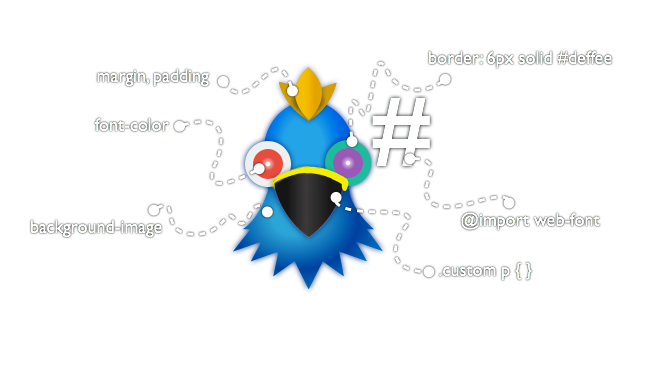
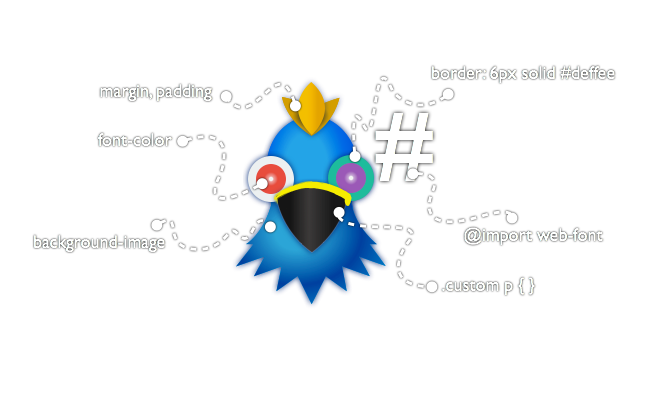
add intro image for v0.8

diff --git a/user.html b/user.html
@@ -173,10 +173,17 @@
                 <li data-target="#intro-carousel" data-slide-to="4"></li>
                 <li data-target="#intro-carousel" data-slide-to="5"></li>
                 <li data-target="#intro-carousel" data-slide-to="6"></li>
+                <li data-target="#intro-carousel" data-slide-to="7"></li>
               </ol>
               <!-- Carousel items -->
               <div class="carousel-inner">
                 <div class="active item">
+                  <img src="assets/images/intro/8.png" alt="cross platform" >
+                  <div class="carousel-caption">
+                    <h4>Smart Media Embeding (more than 50 major services)</h4>
+                  </div>
+                </div>
+                <div class="item">
                   <img src="assets/images/intro/2.png" alt="cross platform" >
                   <div class="carousel-caption">
                     <h4>Cross Platform (Window, Linux and Mac OS X)</h4>
